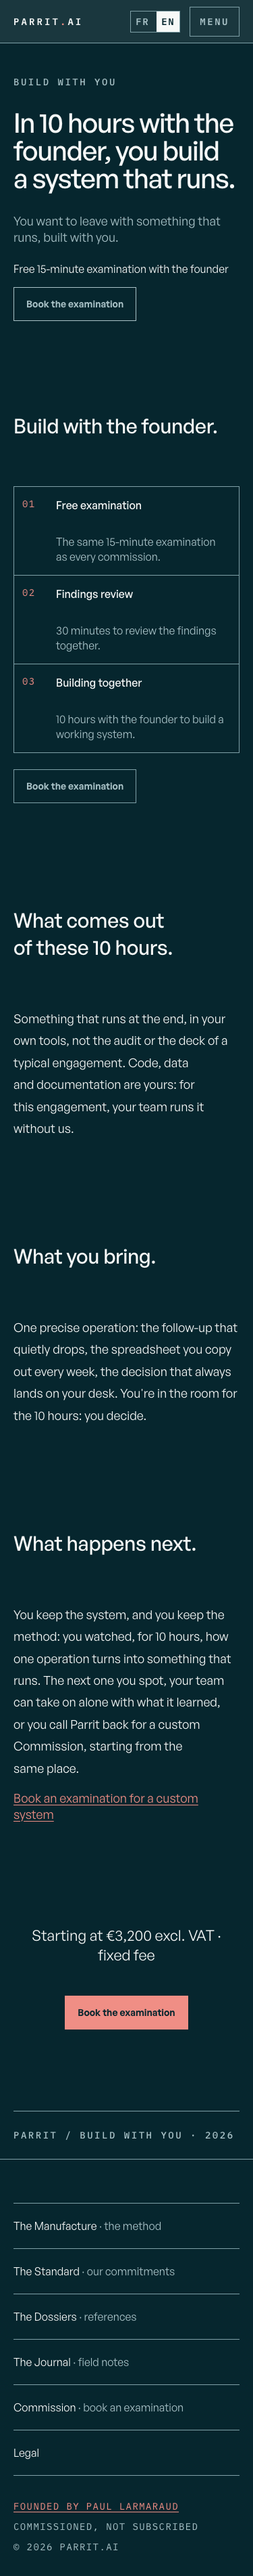
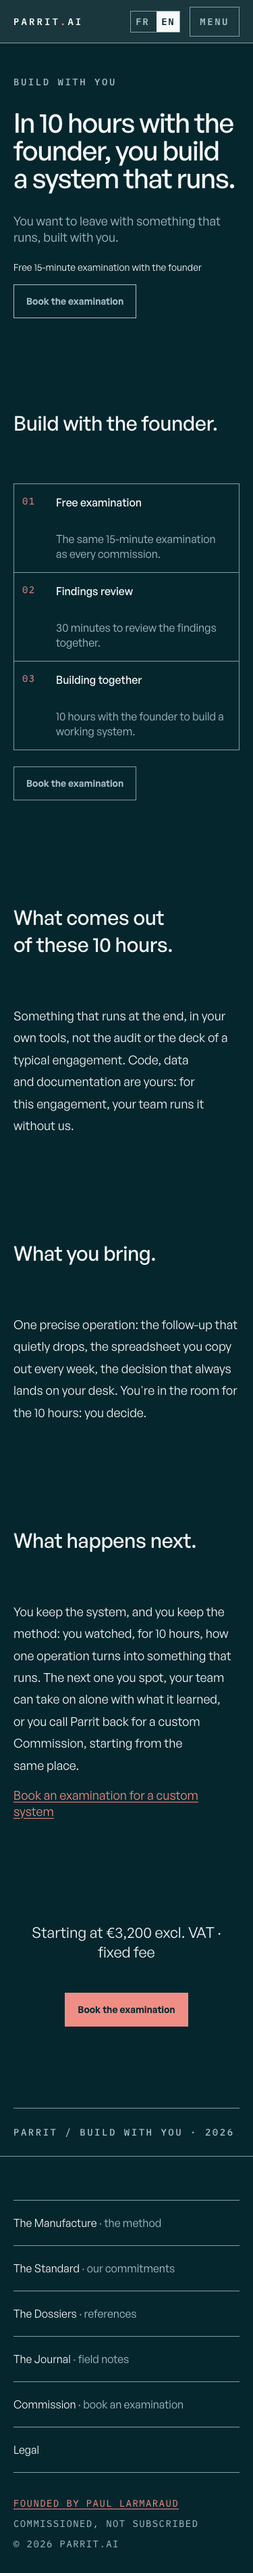
codex: implémente docs/CODEX-SPEC-2026-10-04-parrit-ai-doctrine-visible-v1.md
Via pont headless codex-handoff.sh. Batterie verte.

diff --git a/tests/doctrine-visible.spec.ts b/tests/doctrine-visible.spec.ts
@@ -92,6 +92,41 @@ for (const locale of ["fr", "en"] as const) {
         return Math.abs(box.x + box.width / 2 - parent.x - parent.width / 2);
       });
       expect(geometry).toBeLessThanOrEqual(1);
+      if (width === 1440) {
+        const measure = await journey.evaluate((element) => {
+          const heading = element.querySelector("h2")!;
+          const build = document.querySelector(".home-s-build > .home-s-wrap")!;
+          return {
+            width: element.getBoundingClientRect().width,
+            referenceWidth: build.getBoundingClientRect().width,
+            lines: heading.getBoundingClientRect().height / parseFloat(getComputedStyle(heading).lineHeight),
+          };
+        });
+        expect(Math.abs(measure.width - measure.referenceWidth)).toBeLessThanOrEqual(1);
+        expect(measure.lines).toBeLessThanOrEqual(3.01);
+      }
+      for (const paragraph of await journey.locator("p").all()) {
+        const measure = await paragraph.evaluate((element) => {
+          const probe = document.createElement("span");
+          probe.style.cssText = "display:block;width:56ch;font:inherit";
+          element.append(probe);
+          const expectedWidth = parseFloat(getComputedStyle(probe).width);
+          const maxWidth = parseFloat(getComputedStyle(element).maxWidth);
+          probe.remove();
+          return { expectedWidth, maxWidth };
+        });
+        // CSS serialization and layout round fractional pixels differently.
+        expect(Math.abs(measure.maxWidth - measure.expectedWidth)).toBeLessThanOrEqual(1);
+      }
+      for (const prose of await page.locator(".home-s-verdict, .home-s-proof-item span, .doctrine-note").all()) {
+        await expect(prose).toHaveCSS("font-family", /General Sans/);
+        await expect(prose).toHaveCSS("text-transform", "none");
+        await expect(prose).toHaveCSS("letter-spacing", "normal");
+        await expect(prose).toHaveCSS("font-size", await prose.evaluate((el) => el.matches(".home-s-proof-item span") ? "18px" : "14px"));
+      }
+      for (const kicker of await page.locator(".home-s-build .k:not(.home-s-verdict), .home-s-maison .k").all()) {
+        await expect(kicker).toHaveCSS("font-family", /IBM Plex Mono/);
+      }
       await expect(page.locator(".home-s-offers .rev-button.ghost")).toHaveCount(2);
       const offerTitle = page.locator(".offer-card h3").first();
       for (const heading of await page.locator(".home-s-proof-item h3").all()) {
@@ -175,6 +210,7 @@ for (const locale of ["fr", "en"] as const) {
     expect(bounds!.y).toBeGreaterThanOrEqual(0);
     expect(bounds!.y + bounds!.height).toBeLessThanOrEqual(844);
     await expect(hero.locator(".doctrine-note")).toHaveText(locale === "fr" ? "Examen offert de 15 minutes, avec le fondateur" : "Free 15-minute examination with the founder");
+    await expect(hero.locator(".doctrine-note")).toHaveCSS("font-size", "14px");
     await expect(hero.locator(".offer-price")).toHaveCount(0);
     await expect(page.locator(".r2-close .offer-price")).toHaveCount(1);
     await expect(page.locator('[aria-labelledby="build-next"] > a')).toHaveText(locale === "fr" ? "Réserver un examen pour un système sur mesure" : "Book an examination for a custom system");

diff --git a/src/app/(rev01)/rev01.css b/src/app/(rev01)/rev01.css
@@ -1894,7 +1894,6 @@ a.k:active {
 
 .home-s-maison-copy {
   width: 100%;
-  max-width: 56ch;
   justify-self: center;
 }
 
@@ -2000,6 +1999,10 @@ a.k:active {
   display: block;
   margin-top: 26px;
   text-align: center;
+  font-family: var(--ui);
+  font-size: var(--t-k);
+  letter-spacing: normal;
+  text-transform: none;
 }
 
 .home-s-journal {
@@ -2051,7 +2054,7 @@ a.k:active {
 
 .doctrine-note {
   font-family: var(--ui);
-  font-size: var(--text-note);
+  font-size: var(--t-k);
   letter-spacing: normal;
   text-transform: none;
 }
@@ -2939,9 +2942,10 @@ a.k:active {
 .home-s-proof-item span {
   display: inline-block;
   margin-top: 12px;
-  font-family: var(--mono);
-  font-size: var(--t-k);
-  letter-spacing: .05em;
+  font-family: var(--ui);
+  font-size: var(--t-m);
+  letter-spacing: normal;
+  text-transform: none;
   color: var(--accent-text);
 }
 @media (max-width: 640px) {

diff --git a/src/system/tokens.css b/src/system/tokens.css
@@ -48,7 +48,6 @@
   /* Pas fixes */
   --t-k: 14px;
   --t-s: 16px;
-  --text-note: var(--t-s);
   --t-m: 18px;
   --t-l: 22px;
   --t-xl: 26px;

diff --git a/docs/REPORT-2026-10-04-doctrine-visible.md b/docs/REPORT-2026-10-04-doctrine-visible.md
@@ -1,5 +1,109 @@
 # Doctrine visible — rapport d’implémentation
 
+## Reprise FIX3 — 04/10/2026 (état actuel)
+
+Les changements FIX2 présents à l’arrivée sont conservés, ainsi que la spec utilisateur.
+Plan appliqué : contrôler les prérequis FIX2, corriger uniquement l’assertion FIX3,
+sauvegarder les captures encore suivies, puis rejouer la batterie autorisée.
+Cible : worktree local ; aucune donnée métier ni écriture distante. Une passe de
+correction, une vérification avant/après ; aucun commit, push ou déploiement.
+
+### Modifications FIX3
+
+- `tests/doctrine-visible.spec.ts` : comparaison textuelle exacte de `max-width`
+  remplacée par `Math.abs(maxWidth - expectedWidth) <= 1`, avec conversion numérique
+  des deux mesures. La sonde reste à **56ch**, les autres assertions sont conservées.
+  Aucun nouveau cas de test permanent : correction des cas FR/EN, 1440/390 existants,
+  expressément demandée par FIX3. Aucun changement de code produit.
+- `.codex-handoffs/brand-os-p1/after/` : les **36 PNG présents et suivis** à l’arrivée
+  ont été copiés hors dépôt, chacun vérifié par SHA256, puis supprimés du worktree.
+  Sauvegarde actuelle (y compris les huit PNG modifiés avant cette reprise) :
+  `/private/tmp/parrit-doctrine-fix3-tnlpr8dd/`, avec `manifest.json`.
+  Le motif `.codex-handoffs/**/*.png` était déjà dans `.gitignore` et est conservé.
+- Ce rapport est complété ; les autres modifications préexistantes restent intactes.
+
+### Contrôles FIX2 demandés par FIX3
+
+`git diff origin/main -- src/system/tokens.css` est vide ; aucune occurrence de
+`--text-note` dans `src`. Les notes utilisent le cran existant `--t-k`.
+Les corrections de largeur, du verdict et des liens de preuve sont présentes.
+
+**Limite Git explicite :** l’index est en lecture seule dans cet environnement.
+Les 36 suppressions sont donc non indexées et `git ls-files` les énumère encore.
+Le script utilisateur devra inclure ces suppressions lors de son indexation ; après
+cette étape, aucun PNG sous `.codex-handoffs/` ne doit rester suivi. Les copies hors
+dépôt préservent tous les octets, dont les changements utilisateur.
+
+### Résultats FIX3
+
+| Contrôle | Avant / après correction |
+|---|---|
+| `npm run lint` | Réussi / réussi. |
+| `npx --no-install tsc --noEmit` | Réussi / réussi. |
+| `npm run qa:claims:rev01` | Réussi / réussi. |
+| `npm run qa:brand:rev01` | Réussi / réussi. |
+| `npm run test:doctrine` | 10/10 / 10/10. |
+| `npm run test:brand-os` | 12/12 / 12/12, sur le build préexistant ; avertissement metadataBase inchangé. |
+| `npm run qa:network:rev01 -- --workers=1 --max-failures=1` | Même blocage avant/après : Chromium, `MachPortRendezvousServer: Permission denied (1100)` ; 1 échec au lancement, 169 cas non exécutés. |
+| `git diff --check` | Réussi après correction. |
+| Vérification ponctuelle des bornes numériques | 6 assertions réussies : écart signalé 586.656/586.641, bornes ±1, rejet au-delà des deux bornes et rejet de NaN. Ne remplace pas le rendu navigateur. |
+| Build et captures | Build non lancé conformément au §8 (interdit dans le sandbox) ; aucune nouvelle capture, Chromium indisponible. |
+
+La batterie navigateur complète et les captures FR 1440/390 restent à exécuter sur
+l’hôte. Aucun résultat visuel ni effet en production n’est revendiqué par cette reprise.
+
+---
+
+## Reprise FIX2 — 04/10/2026 (historique)
+
+Base du worktree demandé : `855bd6ad2d429e9ee5d99cd18125a528c940cf2c`.
+La spec était le seul fichier modifié à l’arrivée ; son diff préexistant est conservé
+sans modification. Les sections suivantes décrivent historiquement les passes initiale
+et FIX1 ; les valeurs ci-dessous remplacent leurs mentions de `--text-note` et de largeur.
+Instructions, contexte, TRUTH et spec lus avant modification ; guide CSS Next installé
+consulté. Plan borné aux quatre points FIX2, une passe de correction et une batterie.
+Cible : fichiers locaux uniquement ; aucun accès métier, aucune écriture distante.
+Retour possible par restauration ciblée depuis la base, sans toucher à la spec utilisateur.
+
+### Modifications de cette reprise
+
+| Fichier | Avant → après |
+|---|---|
+| `src/system/tokens.css` | Suppression de l’alias ajouté `--text-note: var(--t-s)`. Aucun fichier vendorisé touché. |
+| `src/app/(rev01)/rev01.css` | Notes : 16 → 14 px via `--t-k`. Colonne déroulement : plafond 56ch supprimé, largeur de `.home-s-wrap` comme « Ce que nous construisons » ; paragraphes toujours limités à 56ch. Verdict : Plex Mono/capitales → General Sans/casse normale, 14 px. Liens des preuves : Plex Mono 14 px → General Sans 18 px, casse normale et espacement normal. Surtitres, numéros et textes conservés. |
+| `.gitignore` | Ajout de `.codex-handoffs/**/*.png`. |
+| `.codex-handoffs/brand-os-p1/after/*.png` | **36** PNG suivis réellement présents (la spec en annonçait 32), retirés du worktree après copie et comparaison SHA256 de chaque fichier. Sauvegarde hors dépôt : `/private/tmp/parrit-doctrine-visible-fix2-855bd6a/after/`. Suppressions non indexées, à prendre en charge par le script utilisateur. |
+| `tests/doctrine-visible.spec.ts` | Assertions ajoutées aux cas existants FR/EN à 1440/390 : largeur commune, titre du déroulement sur trois lignes maximum à 1440, paragraphes à 56ch, notes/verdict à 14 px, liens à 18 px, General Sans sans capitales ni tracking ; maintien des surtitres/numéros en Plex Mono. Note Build With You vérifiée à 14 px. |
+| `AI_CONTEXT.md`, ce rapport | État FIX2 et limites de vérification documentés. |
+
+Aucun nouveau libellé, aucun seuil existant changé, aucun autre test modifié.
+Les tests privés existants sont conservés : ils vérifient les libellés de réservation
+explicitement demandés au §8(b), sans tester le métier des esquisses.
+AGENTS.md porte déjà les trois corrections exigées ; aucune réécriture nécessaire.
+
+### Exécutions FIX2
+
+Baseline avant édition : lint, claims, brand, doctrine (10/10) et Brand OS (12/12) verts.
+
+| Contrôle après édition | Résultat |
+|---|---|
+| `npm run lint` | Réussi. |
+| `npx --no-install tsc --noEmit` | Réussi. |
+| `npm run qa:claims:rev01` | Réussi. |
+| `npm run qa:brand:rev01` | Réussi. |
+| `npm run test:doctrine` | 10/10. |
+| `npm run test:brand-os` | 12/12 ; rendu compilé sur le `.next` préexistant, donc sans preuve du CSS FIX2. Avertissement metadataBase déjà présent en baseline. |
+| `npm run qa:network:rev01 -- --workers=1 --max-failures=1` | 170 cas collectés ; premier cas bloqué au lancement Chromium (`MachPortRendezvousServer: Permission denied (1100)`), 169 non exécutés. |
+| `git diff --check` | Réussi. |
+| Build | Non lancé conformément à l’interdiction explicite de la spec dans le sandbox ; aucun serveur lancé. |
+
+**Validation visuelle encore requise sur l’hôte** après nouveau build : batterie réseau,
+six captures FR 1440/390 et inspection du titre sur trois lignes maximum. Les anciennes
+captures sauvegardées ne prouvent pas le rendu FIX2. Aucune nouvelle capture ni preuve
+de production revendiquée. Aucun commit, indexation, push ou déploiement effectué.
+
+---
+
 Date : 04/10/2026. Base locale : `26dcd2695a8c07c2576e9dc9304b2dbf6e2cf964`,
 identique à la base de la spec. **Validation partielle ; ne pas considérer la batterie verte.**
 

diff --git a/docs/CODEX-SPEC-2026-10-04-parrit-ai-doctrine-visible-v1.md b/docs/CODEX-SPEC-2026-10-04-parrit-ai-doctrine-visible-v1.md
@@ -14,6 +14,29 @@ P1/P3 du 24/09, REGLES-DOR §48 « un seul canon de marque ») et périmée sur 
 d'instrument ou impose le libellé « Parlons-en », ce lot l'emporte. Mettre à jour la puce correspondante d'`AGENTS.md`
 (libellé de l'action du header ; boutons en General Sans ; zéro ombre) dans le même lot, sans réécrire le reste.
 
+## FIX3 (04/10) — sur le travail FIX2 présent (ne rien refaire)
+Batterie hors sandbox : seul `tests/doctrine-visible.spec.ts:109` échoue (8 cas, FR/EN, 1440/390) : `toHaveCSS("max-width",
+…)` compare deux largeurs au millième (attendu 586.641px, reçu 586.656px). Remplacer l'égalité exacte par une
+comparaison numérique à ±1 px (même tolérance que les contrôles d'axe du dépôt). La règle (mesure de 56 ch) ne change
+pas. Vérifier aussi que FIX2 §1 et §2 sont bien faits : `git diff origin/main -- src/system/tokens.css` vide, aucun PNG
+sous `.codex-handoffs/` suivi par git.
+
+## FIX2 (04/10) — sur la PR #300 (ne rien refaire, ne rien annuler)
+Relecture de Claude (diff + rendu local, FR, 1440 et 375) :
+1. **Token ajouté** : `src/system/tokens.css` reçoit `--text-note: var(--t-s)` (16 px). Un token nouveau exige une
+   décision (REGLES-DOR §48) et une note se rend au cran existant de 14 px. Retirer la ligne ; utiliser `--t-k` (14 px)
+   là où `--text-note` était employé.
+2. **Captures commitées** : retirer du dépôt les 32 PNG de `.codex-handoffs/brand-os-p1/after/` (les garder hors git ;
+   ajouter `.codex-handoffs/**/*.png` à `.gitignore`).
+3. **Déroulement** : centrée, la colonne est trop étroite et le titre h2 tient sur cinq lignes à 1440 px. Porter la
+   largeur de la colonne à la mesure de texte des autres sections de l'accueil (celle de « Ce que nous construisons »),
+   pour un titre sur trois lignes au plus à 1440 px ; mesure du paragraphe inchangée (≤ 75 caractères par ligne).
+4. **Phrases en Plex Mono** (W-25, mono réservée à l'appareil) : la phrase de conclusion « Trois gestes, sur l'opération
+   choisie… » (`build.verdict`) et les liens « Voir le système » / « Voir les dossiers » passent en General Sans,
+   casse normale (`--t-k` pour le verdict, taille de lien du corps pour les liens). Les surtitres et numéros restent en
+   Plex Mono.
+Rien d'autre ne change.
+
 ## FIX1 (04/10) — À FAIRE SUR LE TRAVAIL DÉJÀ PRÉSENT DANS CE WORKTREE (ne rien refaire, ne rien annuler)
 Batterie hors sandbox : lint, claims, build, brand verts ; `test:brand-os` rouge sur un seul test.
 1. `tests/brand-os-render.test.mjs:74` exige la légende « Paul Larmaraud · Fondateur/Founder » : elle gèle l'ancien

diff --git a/AI_CONTEXT.md b/AI_CONTEXT.md
@@ -299,3 +299,11 @@ Le test strict d’accent est conservé ; transitions, navigation et absence de 
 L’assertion de légende compilée suit désormais la présence d’une photo dans la section.
 Build interdit ici ; Chromium refuse de démarrer dans le sandbox. Voir
 `docs/REPORT-2026-10-04-doctrine-visible.md` avant de considérer le lot validé.
+
+FIX2 (04/10) : alias `--text-note` retiré ; notes et verdict au cran existant
+`--t-k` (14 px), liens de preuve en General Sans au corps (18 px), casse normale.
+Le déroulement occupe la largeur commune des sections ; paragraphes conservés à 56ch.
+Les 36 captures PNG suivies de brand-os-p1/after sont sauvegardées hors dépôt puis
+retirées ; les PNG de `.codex-handoffs` sont désormais ignorés. Tests de composition
+complétés. Lint, types, claims, brand et tests Node passent ; Chromium reste bloqué,
+le build et la preuve visuelle doivent être exécutés par l’hôte (voir rapport FIX2).
